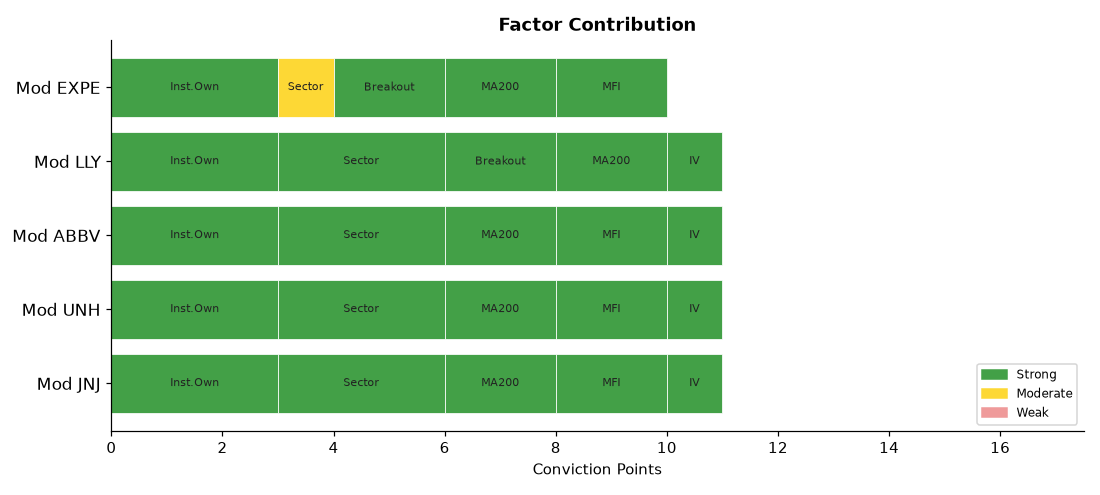
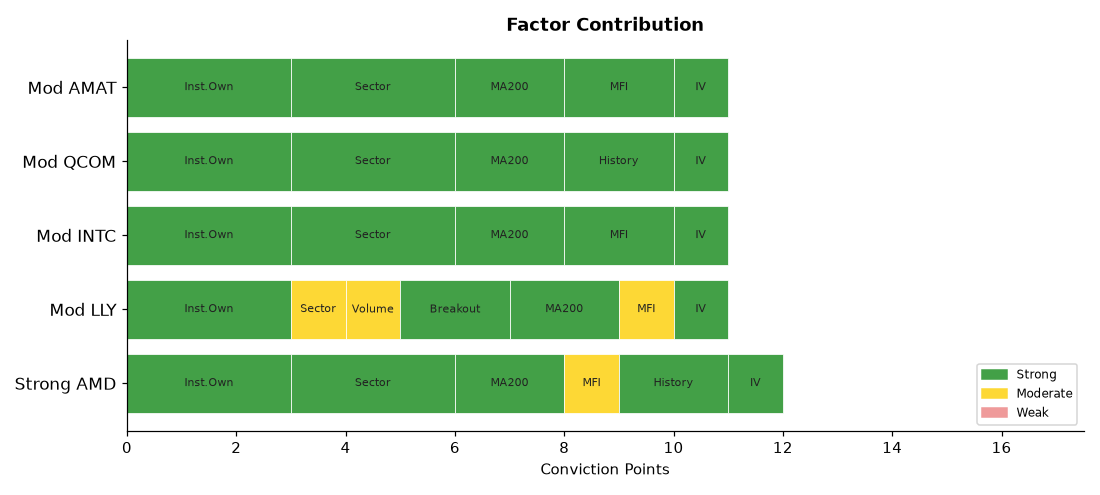
deploy: b7fadf5b06deb90e7ebb92f278722414bdd9750d

diff --git a/index.html b/index.html
@@ -4,7 +4,7 @@
   <meta charset="UTF-8">
   <meta name="viewport" content="width=device-width,initial-scale=1">
   <meta http-equiv="Cache-Control" content="no-cache,no-store,must-revalidate">
-  <title>Stock Breakout Screener — 2026-06-26 16:31</title>
+  <title>Stock Breakout Screener — 2026-06-26 18:56</title>
   <style>
     *{box-sizing:border-box;margin:0;padding:0}
     body{font-family:'Segoe UI',Arial,sans-serif;background:#f0f2f5;
@@ -34,20 +34,20 @@
 
 <div class="hdr">
   <h1>📈 Stock Breakout Screener</h1>
-  <p>Updated: 2026-06-26 16:31 UTC &nbsp;·&nbsp; Phase: Regular Market Hours &nbsp;·&nbsp;
+  <p>Updated: 2026-06-26 18:56 UTC &nbsp;·&nbsp; Phase: Regular Market Hours &nbsp;·&nbsp;
      129 stocks screened &nbsp;·&nbsp; Top 5 by conviction score</p>
 </div>
 
 <div class="card">
   <strong style="font-size:14px">Market Sentiment: 🐻 Bearish</strong>
   <div class="bar-wrap" style="margin-top:10px">
-    <div style="width:0%;background:#43a047"></div>
-    <div style="width:8%;background:#fdd835"></div>
+    <div style="width:1%;background:#43a047"></div>
+    <div style="width:7%;background:#fdd835"></div>
     <div style="width:92%;background:#e53935"></div>
   </div>
   <div style="font-size:12px;color:#555">
-    🟢 Strong 0% &nbsp;
-    🟡 Moderate 8% &nbsp;
+    🟢 Strong 1% &nbsp;
+    🟡 Moderate 7% &nbsp;
     🔴 Weak 92%
   </div>
 </div>
@@ -59,8 +59,25 @@
                     box-shadow:0 2px 6px rgba(0,0,0,.07)">
           <div style="display:flex;align-items:center;gap:10px;
                       flex-wrap:wrap;margin-bottom:10px">
+            <span style="font-size:22px">🟢</span>
+            <span style="font-size:19px;font-weight:700">1. AMD</span>
+            <span style="font-size:12px;color:#666">Technology</span>
+            <span style="margin-left:auto;background:#1a237e;color:#fff;
+                         padding:3px 12px;border-radius:12px;
+                         font-size:13px;font-weight:600">
+              12/17
+            </span>
+          </div>
+          <ul style="margin:0;padding-left:18px;font-size:13px;
+                     color:#333;line-height:1.8"><li style="margin:5px 0"><span style="background:#ffebee;color:#b71c1c;padding:2px 7px;border-radius:4px;font-size:11px;">❌</span> Volume: <b>0.5× average</b> — Above-average activity</li><li style="margin:5px 0"><span style="background:#ffebee;color:#b71c1c;padding:2px 7px;border-radius:4px;font-size:11px;">❌</span> Candle: close <b>$518.23</b> vs open <b>$519.79</b> (-0.3%) — regular market close</li><li style="margin:5px 0"><span style="background:#e8f5e9;color:#2e7d32;padding:2px 7px;border-radius:4px;font-size:11px;">✅</span> 200-Day MA: price <b>$518.23</b> vs MA <b>$305.44</b> — <b>✅ Above</b> long-term trend</li><li style="margin:5px 0"><span style="background:#e8f5e9;color:#2e7d32;padding:2px 7px;border-radius:4px;font-size:11px;">✅</span> Inst. ownership: <b>72.2%</b> · MFI: <b>53.4</b> · Market cap: <b>$845.0B</b></li><li style="margin:5px 0"><span style="background:#e8f5e9;color:#2e7d32;padding:2px 7px;border-radius:4px;font-size:11px;">✅</span> Last similar breakout: <b>Apr 24, 2026</b> → <b>+30.9%</b> over 10 trading days</li></ul>
+        </div>
+        <div style="background:#fff;border:1px solid #ddd;border-radius:10px;
+                    padding:16px 20px;margin-bottom:12px;
+                    box-shadow:0 2px 6px rgba(0,0,0,.07)">
+          <div style="display:flex;align-items:center;gap:10px;
+                      flex-wrap:wrap;margin-bottom:10px">
             <span style="font-size:22px">🟡</span>
-            <span style="font-size:19px;font-weight:700">1. JNJ</span>
+            <span style="font-size:19px;font-weight:700">2. LLY</span>
             <span style="font-size:12px;color:#666">Healthcare</span>
             <span style="margin-left:auto;background:#1a237e;color:#fff;
                          padding:3px 12px;border-radius:12px;
@@ -69,7 +86,7 @@
             </span>
           </div>
           <ul style="margin:0;padding-left:18px;font-size:13px;
-                     color:#333;line-height:1.8"><li style="margin:5px 0"><span style="background:#ffebee;color:#b71c1c;padding:2px 7px;border-radius:4px;font-size:11px;">❌</span> Volume: <b>0.6× average</b> — Above-average activity</li><li style="margin:5px 0"><span style="background:#ffebee;color:#b71c1c;padding:2px 7px;border-radius:4px;font-size:11px;">❌</span> Candle: close <b>$252.98</b> vs open <b>$248.27</b> (+1.9%) — regular market close</li><li style="margin:5px 0"><span style="background:#e8f5e9;color:#2e7d32;padding:2px 7px;border-radius:4px;font-size:11px;">✅</span> 200-Day MA: price <b>$252.98</b> vs MA <b>$230.34</b> — <b>✅ Above</b> long-term trend</li><li style="margin:5px 0"><span style="background:#e8f5e9;color:#2e7d32;padding:2px 7px;border-radius:4px;font-size:11px;">✅</span> Inst. ownership: <b>76.9%</b> · MFI: <b>66.1</b> · Market cap: <b>$609.0B</b></li></ul>
+                     color:#333;line-height:1.8"><li style="margin:5px 0"><span style="background:#fffde7;color:#f57f17;padding:2px 7px;border-radius:4px;font-size:11px;">⚠</span> Volume: <b>1.3× average</b> — Above-average activity</li><li style="margin:5px 0"><span style="background:#e8f5e9;color:#2e7d32;padding:2px 7px;border-radius:4px;font-size:11px;">✅</span> Candle: close <b>$1207.26</b> vs open <b>$1128.80</b> (+7.0%) — regular market close</li><li style="margin:5px 0"><span style="background:#e8f5e9;color:#2e7d32;padding:2px 7px;border-radius:4px;font-size:11px;">✅</span> 200-Day MA: price <b>$1207.26</b> vs MA <b>$1014.79</b> — <b>✅ Above</b> long-term trend</li><li style="margin:5px 0"><span style="background:#e8f5e9;color:#2e7d32;padding:2px 7px;border-radius:4px;font-size:11px;">✅</span> Inst. ownership: <b>85.4%</b> · MFI: <b>50.4</b> · Market cap: <b>$1076.6B</b></li></ul>
         </div>
         <div style="background:#fff;border:1px solid #ddd;border-radius:10px;
                     padding:16px 20px;margin-bottom:12px;
@@ -77,8 +94,8 @@
           <div style="display:flex;align-items:center;gap:10px;
                       flex-wrap:wrap;margin-bottom:10px">
             <span style="font-size:22px">🟡</span>
-            <span style="font-size:19px;font-weight:700">2. UNH</span>
-            <span style="font-size:12px;color:#666">Healthcare</span>
+            <span style="font-size:19px;font-weight:700">3. INTC</span>
+            <span style="font-size:12px;color:#666">Technology</span>
             <span style="margin-left:auto;background:#1a237e;color:#fff;
                          padding:3px 12px;border-radius:12px;
                          font-size:13px;font-weight:600">
@@ -86,7 +103,7 @@
             </span>
           </div>
           <ul style="margin:0;padding-left:18px;font-size:13px;
-                     color:#333;line-height:1.8"><li style="margin:5px 0"><span style="background:#ffebee;color:#b71c1c;padding:2px 7px;border-radius:4px;font-size:11px;">❌</span> Volume: <b>0.3× average</b> — Above-average activity</li><li style="margin:5px 0"><span style="background:#ffebee;color:#b71c1c;padding:2px 7px;border-radius:4px;font-size:11px;">❌</span> Candle: close <b>$424.93</b> vs open <b>$416.16</b> (+2.1%) — regular market close</li><li style="margin:5px 0"><span style="background:#e8f5e9;color:#2e7d32;padding:2px 7px;border-radius:4px;font-size:11px;">✅</span> 200-Day MA: price <b>$424.93</b> vs MA <b>$330.42</b> — <b>✅ Above</b> long-term trend</li><li style="margin:5px 0"><span style="background:#e8f5e9;color:#2e7d32;padding:2px 7px;border-radius:4px;font-size:11px;">✅</span> Inst. ownership: <b>85.9%</b> · MFI: <b>61.0</b> · Market cap: <b>$385.9B</b></li></ul>
+                     color:#333;line-height:1.8"><li style="margin:5px 0"><span style="background:#ffebee;color:#b71c1c;padding:2px 7px;border-radius:4px;font-size:11px;">❌</span> Volume: <b>0.5× average</b> — Above-average activity</li><li style="margin:5px 0"><span style="background:#ffebee;color:#b71c1c;padding:2px 7px;border-radius:4px;font-size:11px;">❌</span> Candle: close <b>$127.77</b> vs open <b>$128.70</b> (-0.7%) — regular market close</li><li style="margin:5px 0"><span style="background:#e8f5e9;color:#2e7d32;padding:2px 7px;border-radius:4px;font-size:11px;">✅</span> 200-Day MA: price <b>$127.77</b> vs MA <b>$71.53</b> — <b>✅ Above</b> long-term trend</li><li style="margin:5px 0"><span style="background:#e8f5e9;color:#2e7d32;padding:2px 7px;border-radius:4px;font-size:11px;">✅</span> Inst. ownership: <b>64.0%</b> · MFI: <b>69.7</b> · Market cap: <b>$642.1B</b></li></ul>
         </div>
         <div style="background:#fff;border:1px solid #ddd;border-radius:10px;
                     padding:16px 20px;margin-bottom:12px;
@@ -94,8 +111,8 @@
           <div style="display:flex;align-items:center;gap:10px;
                       flex-wrap:wrap;margin-bottom:10px">
             <span style="font-size:22px">🟡</span>
-            <span style="font-size:19px;font-weight:700">3. ABBV</span>
-            <span style="font-size:12px;color:#666">Healthcare</span>
+            <span style="font-size:19px;font-weight:700">4. QCOM</span>
+            <span style="font-size:12px;color:#666">Technology</span>
             <span style="margin-left:auto;background:#1a237e;color:#fff;
                          padding:3px 12px;border-radius:12px;
                          font-size:13px;font-weight:600">
@@ -103,7 +120,7 @@
             </span>
           </div>
           <ul style="margin:0;padding-left:18px;font-size:13px;
-                     color:#333;line-height:1.8"><li style="margin:5px 0"><span style="background:#ffebee;color:#b71c1c;padding:2px 7px;border-radius:4px;font-size:11px;">❌</span> Volume: <b>0.5× average</b> — Above-average activity</li><li style="margin:5px 0"><span style="background:#ffebee;color:#b71c1c;padding:2px 7px;border-radius:4px;font-size:11px;">❌</span> Candle: close <b>$247.46</b> vs open <b>$245.26</b> (+0.9%) — regular market close</li><li style="margin:5px 0"><span style="background:#e8f5e9;color:#2e7d32;padding:2px 7px;border-radius:4px;font-size:11px;">✅</span> 200-Day MA: price <b>$247.46</b> vs MA <b>$216.95</b> — <b>✅ Above</b> long-term trend</li><li style="margin:5px 0"><span style="background:#e8f5e9;color:#2e7d32;padding:2px 7px;border-radius:4px;font-size:11px;">✅</span> Inst. ownership: <b>76.9%</b> · MFI: <b>64.9</b> · Market cap: <b>$437.2B</b></li></ul>
+                     color:#333;line-height:1.8"><li style="margin:5px 0"><span style="background:#ffebee;color:#b71c1c;padding:2px 7px;border-radius:4px;font-size:11px;">❌</span> Volume: <b>0.8× average</b> — Above-average activity</li><li style="margin:5px 0"><span style="background:#ffebee;color:#b71c1c;padding:2px 7px;border-radius:4px;font-size:11px;">❌</span> Candle: close <b>$194.38</b> vs open <b>$201.80</b> (-3.7%) — regular market close</li><li style="margin:5px 0"><span style="background:#e8f5e9;color:#2e7d32;padding:2px 7px;border-radius:4px;font-size:11px;">✅</span> 200-Day MA: price <b>$194.38</b> vs MA <b>$165.70</b> — <b>✅ Above</b> long-term trend</li><li style="margin:5px 0"><span style="background:#e8f5e9;color:#2e7d32;padding:2px 7px;border-radius:4px;font-size:11px;">✅</span> Inst. ownership: <b>84.9%</b> · MFI: <b>49.0</b> · Market cap: <b>$204.9B</b></li><li style="margin:5px 0"><span style="background:#e8f5e9;color:#2e7d32;padding:2px 7px;border-radius:4px;font-size:11px;">✅</span> Last similar breakout: <b>May 07, 2026</b> → <b>+5.4%</b> over 10 trading days</li></ul>
         </div>
         <div style="background:#fff;border:1px solid #ddd;border-radius:10px;
                     padding:16px 20px;margin-bottom:12px;
@@ -111,8 +128,8 @@
           <div style="display:flex;align-items:center;gap:10px;
                       flex-wrap:wrap;margin-bottom:10px">
             <span style="font-size:22px">🟡</span>
-            <span style="font-size:19px;font-weight:700">4. LLY</span>
-            <span style="font-size:12px;color:#666">Healthcare</span>
+            <span style="font-size:19px;font-weight:700">5. AMAT</span>
+            <span style="font-size:12px;color:#666">Technology</span>
             <span style="margin-left:auto;background:#1a237e;color:#fff;
                          padding:3px 12px;border-radius:12px;
                          font-size:13px;font-weight:600">
@@ -120,24 +137,7 @@
             </span>
           </div>
           <ul style="margin:0;padding-left:18px;font-size:13px;
-                     color:#333;line-height:1.8"><li style="margin:5px 0"><span style="background:#ffebee;color:#b71c1c;padding:2px 7px;border-radius:4px;font-size:11px;">❌</span> Volume: <b>1.0× average</b> — Above-average activity</li><li style="margin:5px 0"><span style="background:#e8f5e9;color:#2e7d32;padding:2px 7px;border-radius:4px;font-size:11px;">✅</span> Candle: close <b>$1198.58</b> vs open <b>$1128.80</b> (+6.2%) — regular market close</li><li style="margin:5px 0"><span style="background:#e8f5e9;color:#2e7d32;padding:2px 7px;border-radius:4px;font-size:11px;">✅</span> 200-Day MA: price <b>$1198.58</b> vs MA <b>$1014.72</b> — <b>✅ Above</b> long-term trend</li><li style="margin:5px 0"><span style="background:#e8f5e9;color:#2e7d32;padding:2px 7px;border-radius:4px;font-size:11px;">✅</span> Inst. ownership: <b>85.4%</b> · MFI: <b>49.3</b> · Market cap: <b>$1069.3B</b></li></ul>
-        </div>
-        <div style="background:#fff;border:1px solid #ddd;border-radius:10px;
-                    padding:16px 20px;margin-bottom:12px;
-                    box-shadow:0 2px 6px rgba(0,0,0,.07)">
-          <div style="display:flex;align-items:center;gap:10px;
-                      flex-wrap:wrap;margin-bottom:10px">
-            <span style="font-size:22px">🟡</span>
-            <span style="font-size:19px;font-weight:700">5. EXPE</span>
-            <span style="font-size:12px;color:#666">Consumer Disc</span>
-            <span style="margin-left:auto;background:#1a237e;color:#fff;
-                         padding:3px 12px;border-radius:12px;
-                         font-size:13px;font-weight:600">
-              10/17
-            </span>
-          </div>
-          <ul style="margin:0;padding-left:18px;font-size:13px;
-                     color:#333;line-height:1.8"><li style="margin:5px 0"><span style="background:#ffebee;color:#b71c1c;padding:2px 7px;border-radius:4px;font-size:11px;">❌</span> Volume: <b>0.2× average</b> — Above-average activity</li><li style="margin:5px 0"><span style="background:#e8f5e9;color:#2e7d32;padding:2px 7px;border-radius:4px;font-size:11px;">✅</span> Candle: close <b>$263.46</b> vs open <b>$250.75</b> (+5.1%) — regular market close</li><li style="margin:5px 0"><span style="background:#e8f5e9;color:#2e7d32;padding:2px 7px;border-radius:4px;font-size:11px;">✅</span> 200-Day MA: price <b>$263.46</b> vs MA <b>$242.01</b> — <b>✅ Above</b> long-term trend</li><li style="margin:5px 0"><span style="background:#e8f5e9;color:#2e7d32;padding:2px 7px;border-radius:4px;font-size:11px;">✅</span> Inst. ownership: <b>104.4%</b> · MFI: <b>63.1</b> · Market cap: <b>$31.6B</b></li></ul>
+                     color:#333;line-height:1.8"><li style="margin:5px 0"><span style="background:#ffebee;color:#b71c1c;padding:2px 7px;border-radius:4px;font-size:11px;">❌</span> Volume: <b>1.1× average</b> — Above-average activity</li><li style="margin:5px 0"><span style="background:#ffebee;color:#b71c1c;padding:2px 7px;border-radius:4px;font-size:11px;">❌</span> Candle: close <b>$640.85</b> vs open <b>$642.76</b> (-0.3%) — regular market close</li><li style="margin:5px 0"><span style="background:#e8f5e9;color:#2e7d32;padding:2px 7px;border-radius:4px;font-size:11px;">✅</span> 200-Day MA: price <b>$640.85</b> vs MA <b>$389.64</b> — <b>✅ Above</b> long-term trend</li><li style="margin:5px 0"><span style="background:#e8f5e9;color:#2e7d32;padding:2px 7px;border-radius:4px;font-size:11px;">✅</span> Inst. ownership: <b>85.1%</b> · MFI: <b>79.9</b> · Market cap: <b>$508.9B</b></li><li style="margin:5px 0"><span style="background:#ffebee;color:#b71c1c;padding:2px 7px;border-radius:4px;font-size:11px;">❌</span> Last similar breakout: <b>Jun 25, 2026</b> → <b>-4.1%</b> over 10 trading days</li></ul>
         </div>
 
 
@@ -168,93 +168,93 @@
   
         <tr>
           <td style="font-weight:700;text-align:left;padding-left:10px">
-            🟡 JNJ</td>
-          <td style="background:#ffcdd2">0.6×</td>
-          <td style="background:#ffcdd2">+1.9%</td>
-          <td style="background:#c8e6c9">
-            ▲ Above</td>
-          <td style="background:#c8e6c9">
-            76.9%</td>
-          <td style="background:#c8e6c9">
-            66.1</td>
-          <td style="background:#c8e6c9">Healthcare</td>
-          <td style="background:#c8e6c9">
-            179.0%</td>
-          <td style="background:#ffcdd2">
-            N/A</td>
-          <td style="font-weight:800;font-size:15px">11/17</td>
-        </tr>
-        <tr>
-          <td style="font-weight:700;text-align:left;padding-left:10px">
-            🟡 UNH</td>
-          <td style="background:#ffcdd2">0.3×</td>
-          <td style="background:#ffcdd2">+2.1%</td>
-          <td style="background:#c8e6c9">
-            ▲ Above</td>
-          <td style="background:#c8e6c9">
-            85.9%</td>
-          <td style="background:#c8e6c9">
-            61.0</td>
-          <td style="background:#c8e6c9">Healthcare</td>
-          <td style="background:#c8e6c9">
-            254.7%</td>
-          <td style="background:#ffcdd2">
-            N/A</td>
-          <td style="font-weight:800;font-size:15px">11/17</td>
-        </tr>
-        <tr>
-          <td style="font-weight:700;text-align:left;padding-left:10px">
-            🟡 ABBV</td>
+            🟢 AMD</td>
           <td style="background:#ffcdd2">0.5×</td>
-          <td style="background:#ffcdd2">+0.9%</td>
+          <td style="background:#ffcdd2">-0.3%</td>
           <td style="background:#c8e6c9">
             ▲ Above</td>
           <td style="background:#c8e6c9">
-            76.9%</td>
+            72.2%</td>
+          <td style="background:#fff9c4">
+            53.4</td>
+          <td style="background:#c8e6c9">Technology</td>
           <td style="background:#c8e6c9">
-            64.9</td>
-          <td style="background:#c8e6c9">Healthcare</td>
+            347.9%</td>
           <td style="background:#c8e6c9">
-            189.3%</td>
-          <td style="background:#ffcdd2">
-            N/A</td>
-          <td style="font-weight:800;font-size:15px">11/17</td>
+            +30.9%</td>
+          <td style="font-weight:800;font-size:15px">12/17</td>
         </tr>
         <tr>
           <td style="font-weight:700;text-align:left;padding-left:10px">
             🟡 LLY</td>
-          <td style="background:#ffcdd2">1.0×</td>
-          <td style="background:#c8e6c9">+6.2%</td>
+          <td style="background:#fff9c4">1.3×</td>
+          <td style="background:#c8e6c9">+7.0%</td>
           <td style="background:#c8e6c9">
             ▲ Above</td>
           <td style="background:#c8e6c9">
             85.4%</td>
-          <td style="background:#ffcdd2">
-            49.3</td>
-          <td style="background:#c8e6c9">Healthcare</td>
+          <td style="background:#fff9c4">
+            50.4</td>
+          <td style="background:#fff9c4">Healthcare</td>
           <td style="background:#c8e6c9">
-            170.4%</td>
+            145.3%</td>
           <td style="background:#ffcdd2">
             N/A</td>
           <td style="font-weight:800;font-size:15px">11/17</td>
         </tr>
         <tr>
           <td style="font-weight:700;text-align:left;padding-left:10px">
-            🟡 EXPE</td>
-          <td style="background:#ffcdd2">0.2×</td>
-          <td style="background:#c8e6c9">+5.1%</td>
+            🟡 INTC</td>
+          <td style="background:#ffcdd2">0.5×</td>
+          <td style="background:#ffcdd2">-0.7%</td>
           <td style="background:#c8e6c9">
             ▲ Above</td>
           <td style="background:#c8e6c9">
-            104.4%</td>
+            64.0%</td>
           <td style="background:#c8e6c9">
-            63.1</td>
-          <td style="background:#fff9c4">Consumer Disc</td>
-          <td style="background:#ffcdd2">
-            13.1%</td>
+            69.7</td>
+          <td style="background:#c8e6c9">Technology</td>
+          <td style="background:#c8e6c9">
+            212.4%</td>
           <td style="background:#ffcdd2">
             N/A</td>
-          <td style="font-weight:800;font-size:15px">10/17</td>
+          <td style="font-weight:800;font-size:15px">11/17</td>
+        </tr>
+        <tr>
+          <td style="font-weight:700;text-align:left;padding-left:10px">
+            🟡 QCOM</td>
+          <td style="background:#ffcdd2">0.8×</td>
+          <td style="background:#ffcdd2">-3.7%</td>
+          <td style="background:#c8e6c9">
+            ▲ Above</td>
+          <td style="background:#c8e6c9">
+            84.9%</td>
+          <td style="background:#ffcdd2">
+            49.0</td>
+          <td style="background:#c8e6c9">Technology</td>
+          <td style="background:#c8e6c9">
+            288.3%</td>
+          <td style="background:#c8e6c9">
+            +5.4%</td>
+          <td style="font-weight:800;font-size:15px">11/17</td>
+        </tr>
+        <tr>
+          <td style="font-weight:700;text-align:left;padding-left:10px">
+            🟡 AMAT</td>
+          <td style="background:#ffcdd2">1.1×</td>
+          <td style="background:#ffcdd2">-0.3%</td>
+          <td style="background:#c8e6c9">
+            ▲ Above</td>
+          <td style="background:#c8e6c9">
+            85.1%</td>
+          <td style="background:#c8e6c9">
+            79.9</td>
+          <td style="background:#c8e6c9">Technology</td>
+          <td style="background:#c8e6c9">
+            332.8%</td>
+          <td style="background:#ffcdd2">
+            -4.1%</td>
+          <td style="font-weight:800;font-size:15px">11/17</td>
         </tr>
 </table>
 </div>
@@ -277,58 +277,58 @@
       
         <tr>
           <td style="text-align:left;padding-left:10px;font-weight:600">
-            #1 Healthcare</td>
-          <td style="background:#e8f5e9;color:#2e7d32;font-weight:700">+2.45%</td>
+            #1 Technology</td>
+          <td style="background:#ffebee;color:#c62828;font-weight:700">+nan%</td>
         </tr>
         <tr>
           <td style="text-align:left;padding-left:10px;font-weight:600">
-            #2 Consumer Disc</td>
-          <td style="background:#e8f5e9;color:#2e7d32;font-weight:700">+1.61%</td>
+            #2 Healthcare</td>
+          <td style="background:#e8f5e9;color:#2e7d32;font-weight:700">+2.36%</td>
         </tr>
         <tr>
           <td style="text-align:left;padding-left:10px;font-weight:600">
-            #3 Comm. Services</td>
-          <td style="background:#e8f5e9;color:#2e7d32;font-weight:700">+1.27%</td>
+            #3 Real Estate</td>
+          <td style="background:#e8f5e9;color:#2e7d32;font-weight:700">+1.22%</td>
         </tr>
         <tr>
           <td style="text-align:left;padding-left:10px;font-weight:600">
             #4 Consumer Stpl</td>
-          <td style="background:#e8f5e9;color:#2e7d32;font-weight:700">+1.05%</td>
+          <td style="background:#e8f5e9;color:#2e7d32;font-weight:700">+0.99%</td>
         </tr>
         <tr>
           <td style="text-align:left;padding-left:10px;font-weight:600">
-            #5 Real Estate</td>
-          <td style="background:#e8f5e9;color:#2e7d32;font-weight:700">+0.98%</td>
+            #5 Consumer Disc</td>
+          <td style="background:#e8f5e9;color:#2e7d32;font-weight:700">+0.87%</td>
         </tr>
         <tr>
           <td style="text-align:left;padding-left:10px;font-weight:600">
-            #6 Financials</td>
-          <td style="background:#e8f5e9;color:#2e7d32;font-weight:700">+0.48%</td>
+            #6 Comm. Services</td>
+          <td style="background:#e8f5e9;color:#2e7d32;font-weight:700">+0.83%</td>
         </tr>
         <tr>
           <td style="text-align:left;padding-left:10px;font-weight:600">
             #7 Utilities</td>
-          <td style="background:#e8f5e9;color:#2e7d32;font-weight:700">+0.40%</td>
+          <td style="background:#e8f5e9;color:#2e7d32;font-weight:700">+0.57%</td>
         </tr>
         <tr>
           <td style="text-align:left;padding-left:10px;font-weight:600">
-            #8 Materials</td>
-          <td style="background:#ffebee;color:#c62828;font-weight:700">-0.45%</td>
+            #8 Financials</td>
+          <td style="background:#e8f5e9;color:#2e7d32;font-weight:700">+0.16%</td>
         </tr>
         <tr>
           <td style="text-align:left;padding-left:10px;font-weight:600">
             #9 Energy</td>
-          <td style="background:#ffebee;color:#c62828;font-weight:700">-0.49%</td>
+          <td style="background:#ffebee;color:#c62828;font-weight:700">-0.67%</td>
         </tr>
         <tr>
           <td style="text-align:left;padding-left:10px;font-weight:600">
-            #10 Industrials</td>
-          <td style="background:#ffebee;color:#c62828;font-weight:700">-1.03%</td>
+            #10 Materials</td>
+          <td style="background:#ffebee;color:#c62828;font-weight:700">-0.74%</td>
         </tr>
         <tr>
           <td style="text-align:left;padding-left:10px;font-weight:600">
-            #11 Technology</td>
-          <td style="background:#ffebee;color:#c62828;font-weight:700">-1.35%</td>
+            #11 Industrials</td>
+          <td style="background:#ffebee;color:#c62828;font-weight:700">-1.36%</td>
         </tr>
     </table>
   </div>
@@ -367,7 +367,7 @@
         <li><b>Scoring weights:</b>
             Inst.Own(3) · Sector(3) · Volume(2) · Breakout(2) ·
             MA200(2) · MFI(2) · History(2) · IV(1) = 17pts max</li>
-        <li><b>Run time:</b> 2026-06-26 16:31 UTC — Market phase: Regular Market Hours</li>
+        <li><b>Run time:</b> 2026-06-26 18:56 UTC — Market phase: Regular Market Hours</li>
       </ul>
     </div>
 
